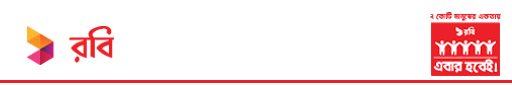
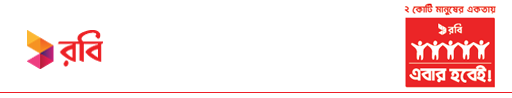
page like fix

Changed region(s): [[0.7812, 0.0235, 1.0, 0.8941], [0.0, 0.9176, 1.0, 0.9882], [0.0312, 0.3059, 0.25, 0.7765]]

diff --git a/app/assets/stylesheets/style.css b/app/assets/stylesheets/style.css
@@ -16,7 +16,7 @@
     margin-top:125px;
     width:400px;
     margin-left:50px;
-    /*background-color:#ED2728;*/
+    background-color:#ED2728;
     color:#FFF;
     text-align:center;
     border-radius:5px;
